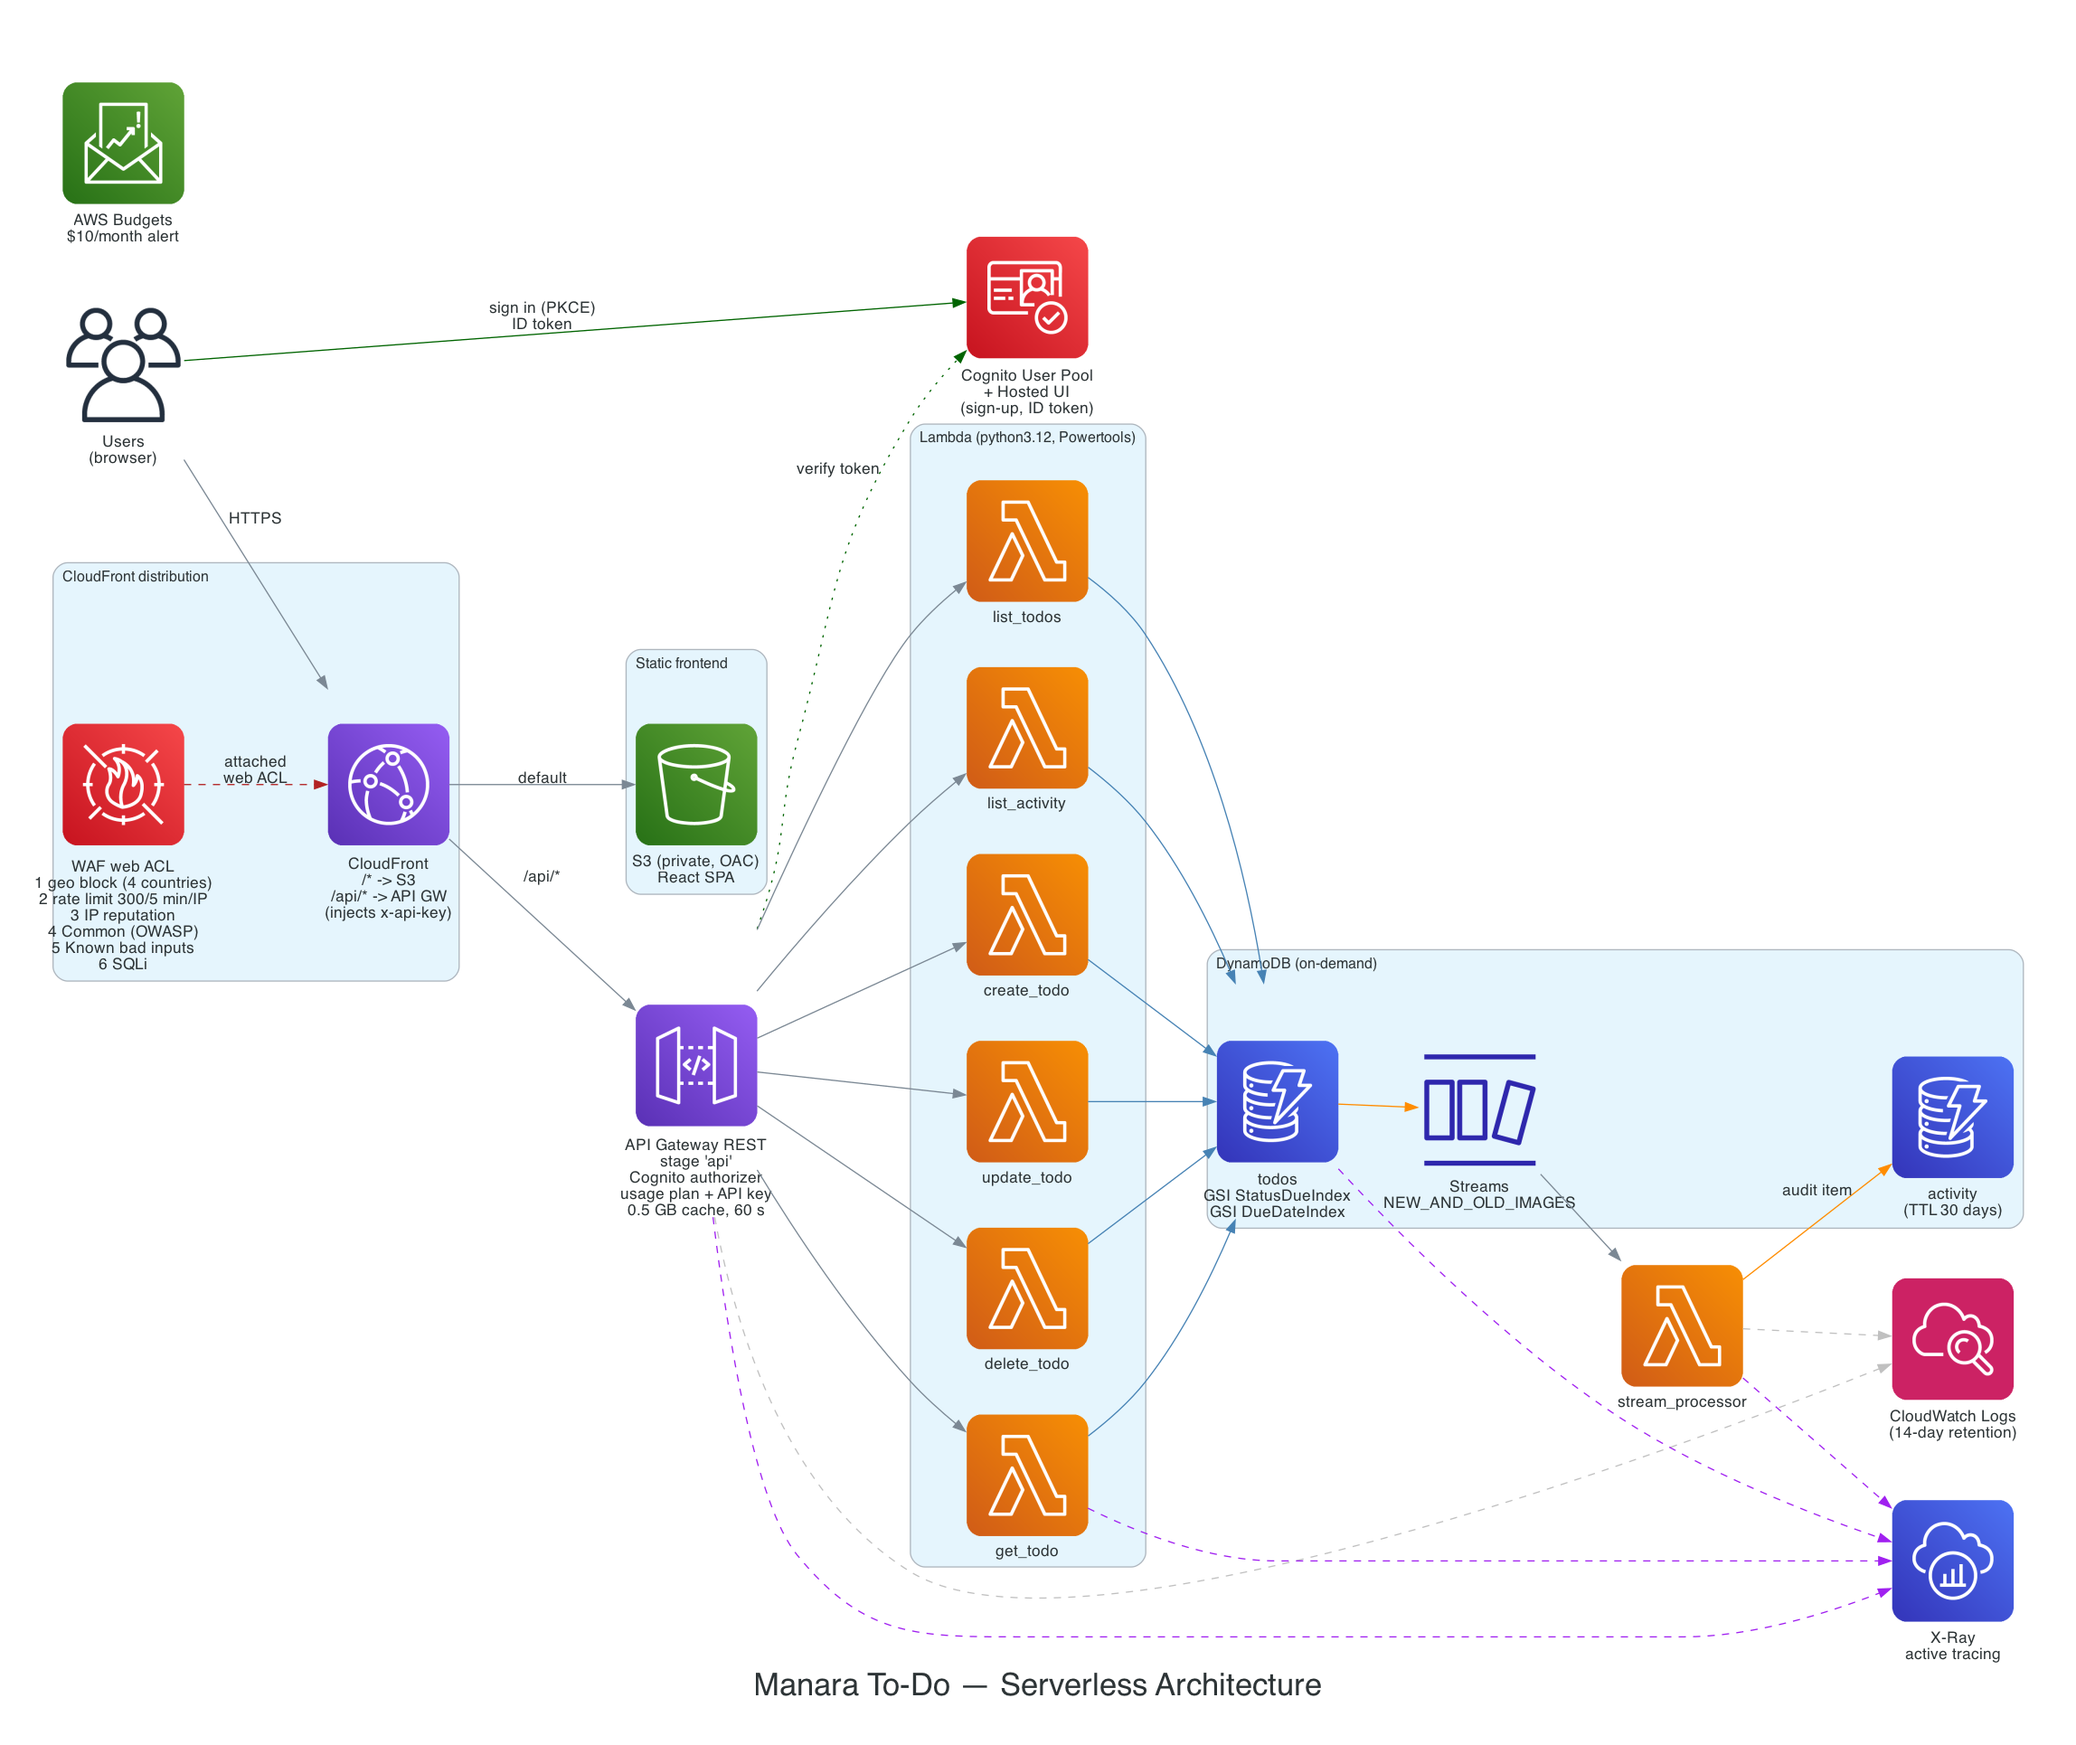
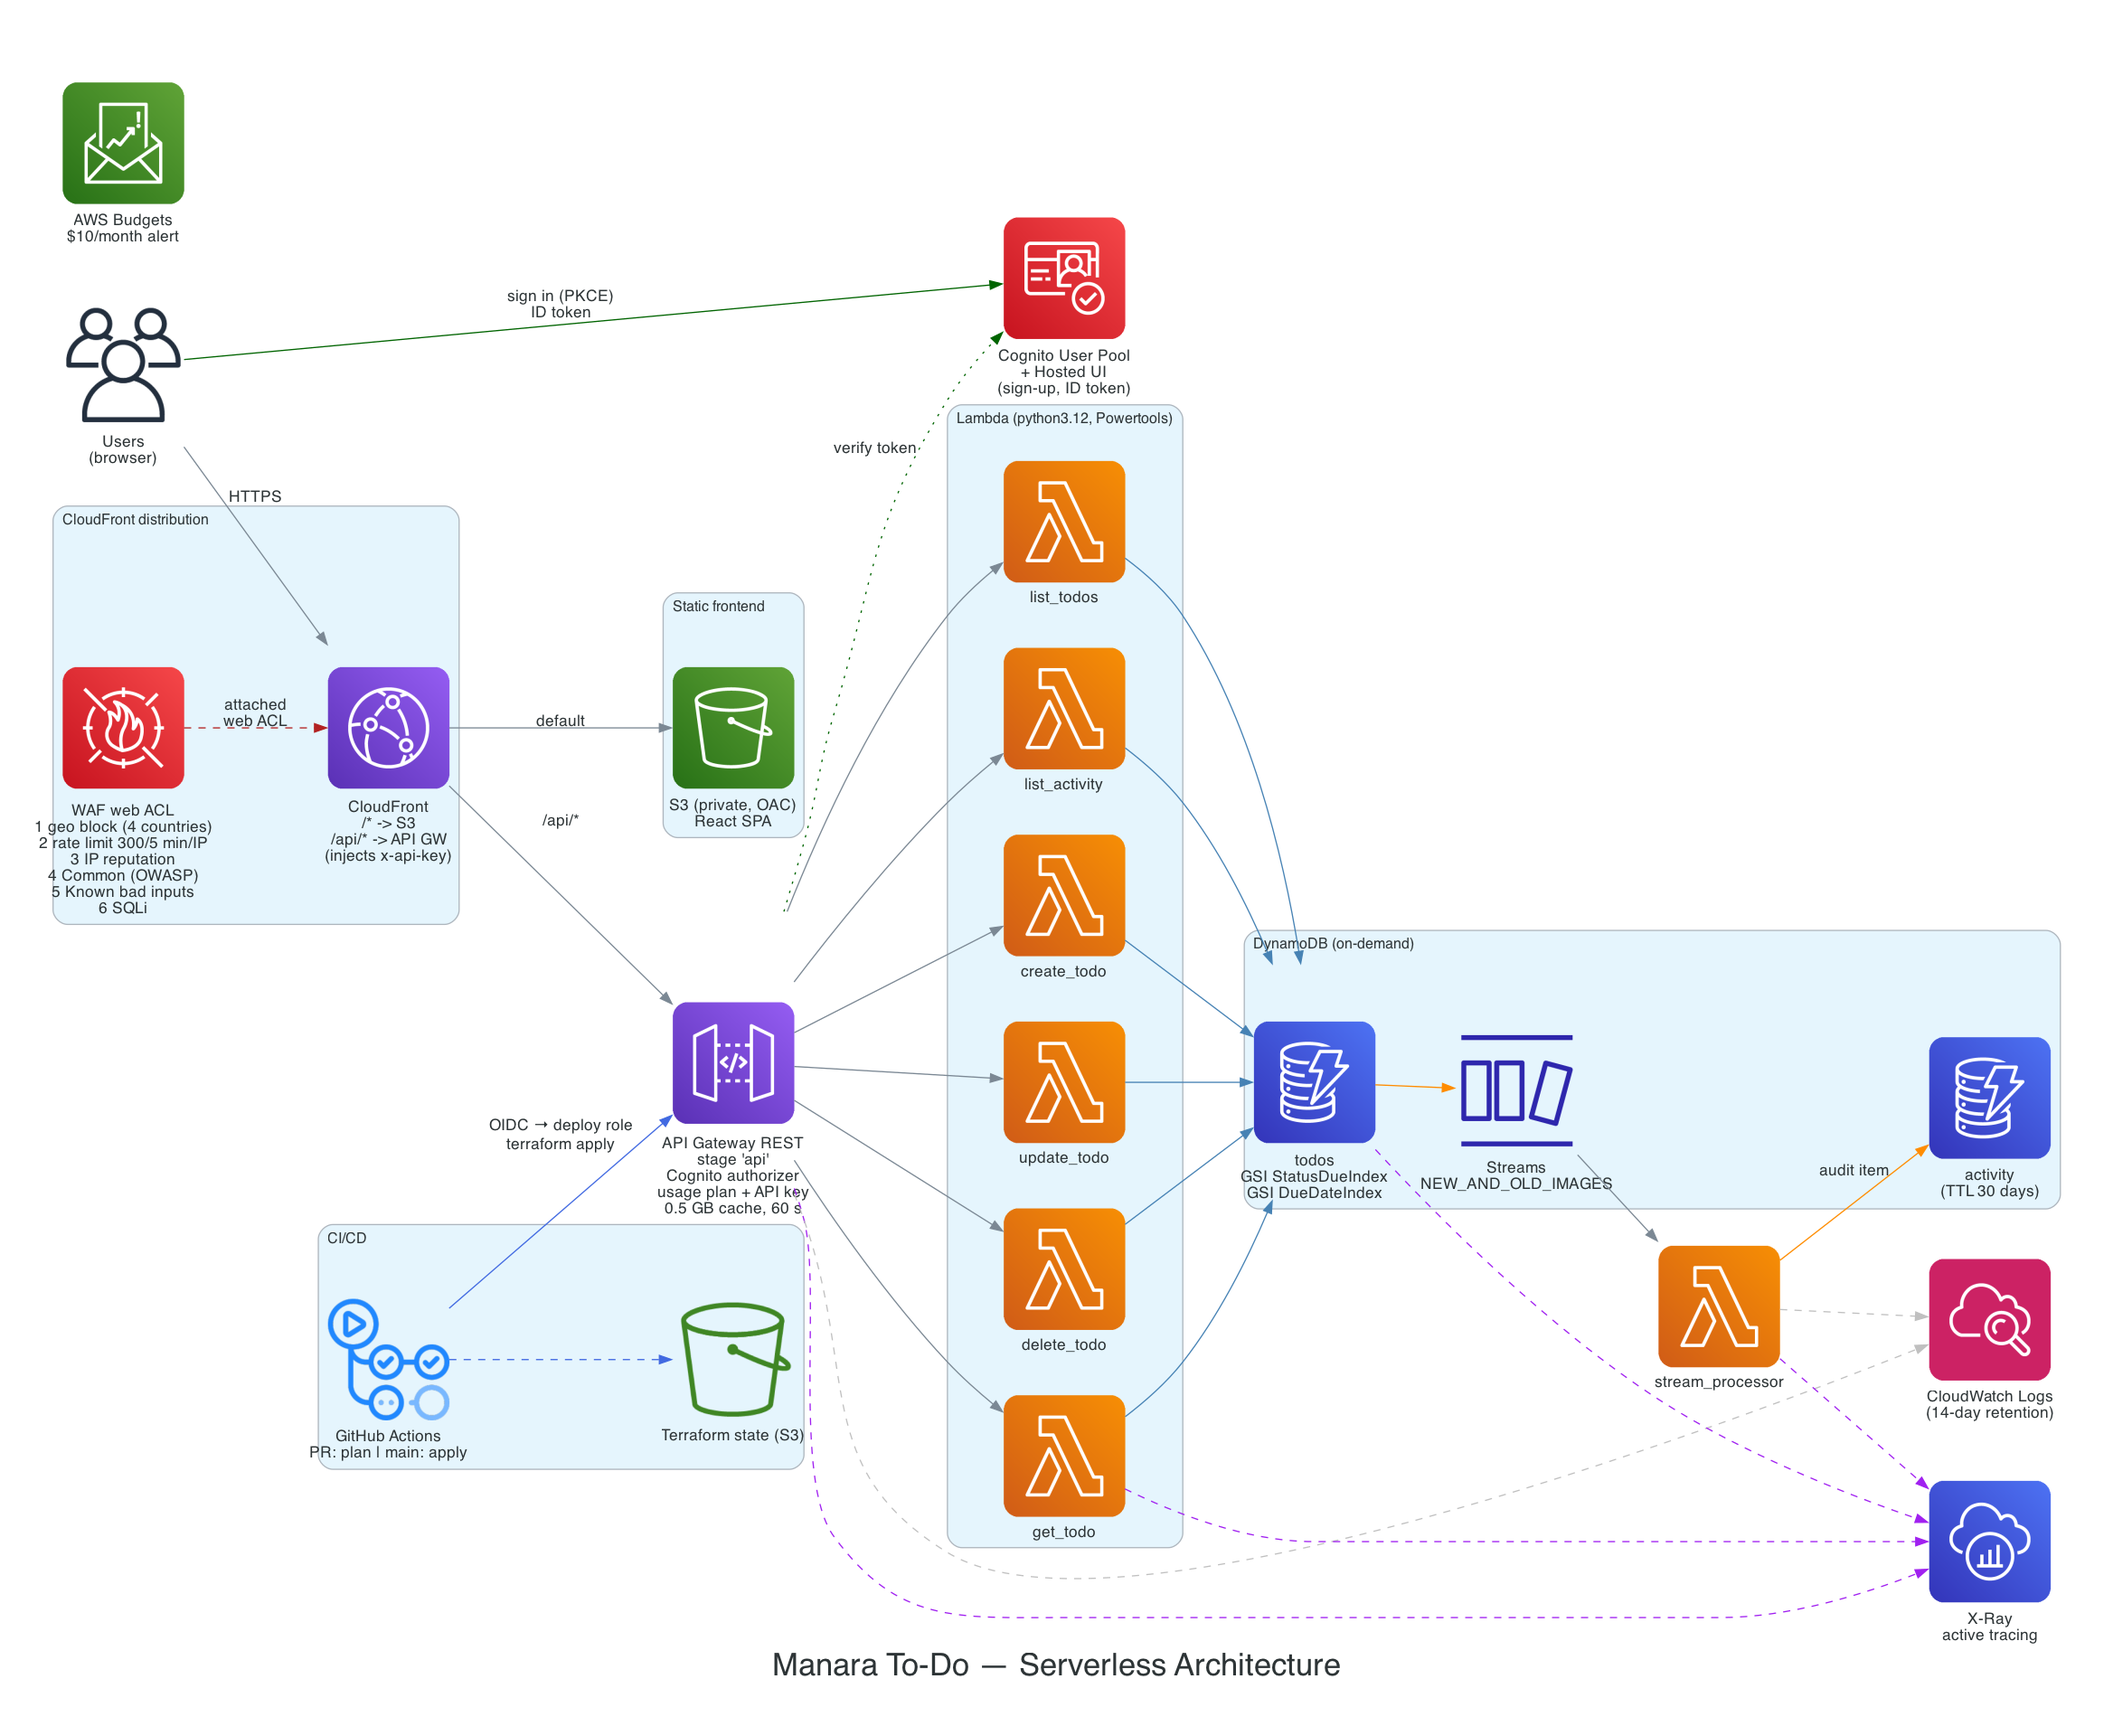
docs: CI/CD section, workflow badges, pipeline in architecture diagram

diff --git a/docs/architecture/diagram.py b/docs/architecture/diagram.py
@@ -14,7 +14,8 @@ from diagrams.aws.devtools import XRay
 from diagrams.aws.management import Cloudwatch
 from diagrams.aws.network import APIGateway, CloudFront
 from diagrams.aws.security import Cognito, WAF
-from diagrams.aws.storage import S3
+from diagrams.aws.storage import S3, SimpleStorageServiceS3Bucket
+from diagrams.onprem.ci import GithubActions
 from diagrams.onprem.client import Users
 
 out = Path(__file__).resolve().parent / "architecture"
@@ -61,6 +62,13 @@ with Diagram(
     xray = XRay("X-Ray\nactive tracing")
     logs = Cloudwatch("CloudWatch Logs\n(14-day retention)")
     budget = Budgets("AWS Budgets\n$10/month alert")
+
+    with Cluster("CI/CD"):
+        gha = GithubActions("GitHub Actions\nPR: plan | main: apply")
+        tfstate = SimpleStorageServiceS3Bucket("Terraform state (S3)")
+
+    gha >> Edge(label="OIDC → deploy role\nterraform apply", color="royalblue") >> apigw
+    gha >> Edge(style="dashed", color="royalblue") >> tfstate
 
     users >> Edge(label="HTTPS") >> cf
     waf >> Edge(label="attached\nweb ACL", style="dashed", color="firebrick") >> cf

diff --git a/README.md b/README.md
@@ -2,6 +2,9 @@
 
 A per-user to-do app built for the Manara "Becoming a Solutions Architect" Project 3. It runs entirely on AWS serverless services and is deployed with Terraform.
 
+[![CI](https://github.com/mustafa-premiera/api/actions/workflows/ci.yml/badge.svg)](https://github.com/mustafa-premiera/api/actions/workflows/ci.yml)
+[![Deploy](https://github.com/mustafa-premiera/api/actions/workflows/deploy.yml/badge.svg)](https://github.com/mustafa-premiera/api/actions/workflows/deploy.yml)
+
 **Live app:** https://<cloudfront-domain>/ <!-- LIVE_URL -->
 
 ![Architecture](docs/architecture/architecture.png)
@@ -139,6 +142,69 @@ Access patterns:
 - Budget `manara-todo-monthly`: $10 per month, emails at 50% and 100% of actual spend.
 - Verify: Console, CloudWatch, Log groups; Billing, Budgets.
 
+## CI/CD
+
+GitHub Actions checks every pull request and deploys `main` with Terraform. No AWS keys are stored in GitHub: workflows assume IAM roles through OIDC.
+
+**Pull request** (`.github/workflows/ci.yml`):
+1. Checks run first (shared `checks.yml`): backend `pytest`, frontend build, `terraform fmt -check` and `validate` for `infra/` and `bootstrap/`.
+2. The `plan` job assumes the plan role, runs `terraform plan -lock=false` against the remote state, and posts the plan as a single PR comment (updated on each push). It is skipped for PRs from forks.
+
+**Push to `main`** (`.github/workflows/deploy.yml`, also runnable by hand):
+1. The same checks run.
+2. The `deploy` job assumes the deploy role and verifies the remote state object exists.
+3. `terraform apply -auto-approve` updates the infrastructure.
+4. `scripts/deploy_frontend.sh` builds the SPA, syncs it to S3 and invalidates CloudFront. The app URL is written to the job summary.
+
+Deploys are serialized (`concurrency: deploy-main`, never cancelled mid-apply). Until the AWS account is verified for CloudFront, deploy runs stop at the CloudFront distribution; everything before it is applied.
+
+### OIDC roles
+
+| Role | Trusted subject | Permissions |
+|---|---|---|
+| `arn:aws:iam::<account-id>:role/manara-todo-gha-plan` | `repo:mustafa-premiera/api:pull_request` | `ReadOnlyAccess` plus read (`s3:GetObject`, `s3:ListBucket`) on the state bucket |
+| `arn:aws:iam::<account-id>:role/manara-todo-gha-deploy` | `repo:mustafa-premiera/api:ref:refs/heads/main` | `AdministratorAccess` |
+
+Both require the audience `sts.amazonaws.com`. The deploy role is `AdministratorAccess` because Terraform manages IAM roles, WAF, CloudFront, API Gateway and more; the safety comes from the trust policy (only workflows running on `main` can assume it) and the provider's account guard, which refuses any other account. The plan role cannot write state or locks, which is why PR plans use `-lock=false`.
+
+Terraform state lives in `s3://manara-todo-tfstate-<account-id>/infra/terraform.tfstate` with native S3 locking (`use_lockfile`, no DynamoDB table).
+
+### Repository variables
+
+Set these under Settings, Secrets and variables, Actions, Variables.
+
+| Variable | Purpose |
+|---|---|
+| `AWS_PLAN_ROLE_ARN` | ARN of `manara-todo-gha-plan` |
+| `AWS_DEPLOY_ROLE_ARN` | ARN of `manara-todo-gha-deploy` |
+| `ALERT_EMAIL` | Budget alert address (`alert_email`) |
+| `ENABLE_WAF` | `true` or `false` (`enable_waf`); defaults to `false` in CI when unset |
+| `ENABLE_API_CACHE` | `true` or `false` (`enable_api_cache`); defaults to `false` in CI when unset |
+
+The PR plan reflects only these repository variables and the defaults, not your local `terraform.tfvars`, so it can differ from what you see running `plan` locally. Note that the deploy applies the same values: with `ENABLE_WAF` and `ENABLE_API_CACHE` unset, CI deploys without WAF and the cache.
+
+### One-time bootstrap
+
+The `bootstrap/` stack creates the state bucket, the GitHub OIDC provider and the two roles. It uses local state (gitignored) and is run once by hand:
+
+```bash
+export AWS_PROFILE=<your-profile>
+terraform -chdir=bootstrap init && terraform -chdir=bootstrap apply
+```
+
+Then point `infra/` at the remote state. With an existing local state, migrate it; on a fresh checkout just init:
+
+```bash
+terraform -chdir=infra init -migrate-state   # existing local state
+terraform -chdir=infra init                  # fresh
+```
+
+Finally set the repository variables above from the bootstrap outputs.
+
+### Branch protection
+
+Recommended: Settings, Branches, add a rule for `main` that requires a pull request and the status checks from the `checks` jobs (`backend-tests`, `frontend-build`, `terraform-static`) before merging.
+
 ## Security notes
 
 - **ID token, not access token.** The Cognito User Pools authorizer validates ID tokens directly and puts the verified claims (including `sub`) in the request context. Access tokens only work with the authorizer when scopes are configured, and carry no email claims. The Lambda trusts `requestContext.authorizer.claims.sub` and never a client-supplied user id.
@@ -168,9 +234,12 @@ Both default to `true`. Destroy the stack when the review is over.
 
 ## Deploy
 
-Prerequisites: Terraform 1.5+, AWS CLI v2 (logged in to the target account), Node 20+, Python 3.12.
+Pushes to `main` deploy automatically (see CI/CD above). To deploy from your machine:
+
+Prerequisites: Terraform 1.10+, AWS CLI v2 (logged in to the target account), Node 20+, Python 3.12.
 
 ```bash
+export AWS_PROFILE=<your-profile>
 cp infra/terraform.tfvars.example infra/terraform.tfvars   # set alert_email
 terraform -chdir=infra init
 terraform -chdir=infra apply
@@ -178,7 +247,7 @@ terraform -chdir=infra apply
 terraform -chdir=infra output app_url
 ```
 
-The AWS profile defaults to `manara-free` (variable `aws_profile`; the script honors `AWS_PROFILE`).
+State is stored remotely in S3 (see the bootstrap steps above for the first-time setup). `deploy_frontend.sh` honors `AWS_PROFILE` (default `manara-free`) outside GitHub Actions.
 
 Destroy everything: `terraform -chdir=infra destroy`.
 
@@ -206,6 +275,8 @@ Create the venv first with `python3.12 -m venv backend/.venv && backend/.venv/bi
 │   ├── src/todo_app/       # Lambda code: handlers/, repository, models, stream translation
 │   └── tests/              # pytest unit tests (moto)
 ├── frontend/               # Vite + React SPA (Cognito Hosted UI via react-oidc-context)
+├── .github/workflows/      # ci.yml (PR), deploy.yml (main), checks.yml (shared)
+├── bootstrap/              # Terraform state bucket + GitHub OIDC roles (run once)
 ├── infra/                  # Terraform: apigateway, cloudfront, cognito, dynamodb, iam, lambda, waf, budget, frontend
 ├── scripts/                # deploy_frontend.sh, smoke_test.py, waf_rate_test.sh
 ├── docs/
